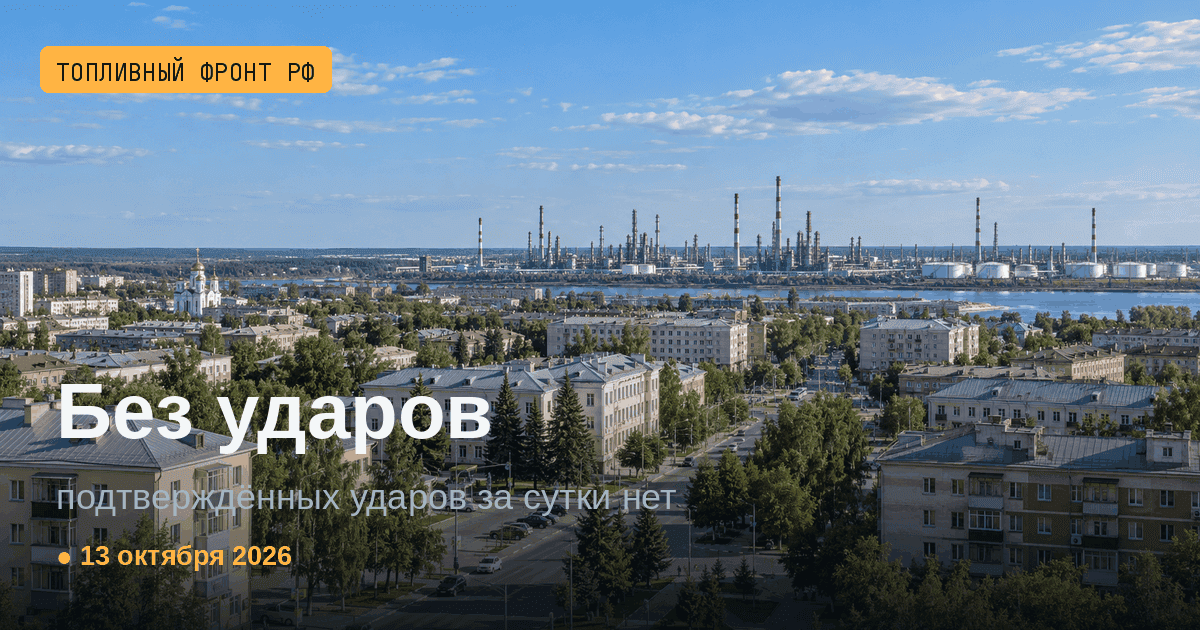
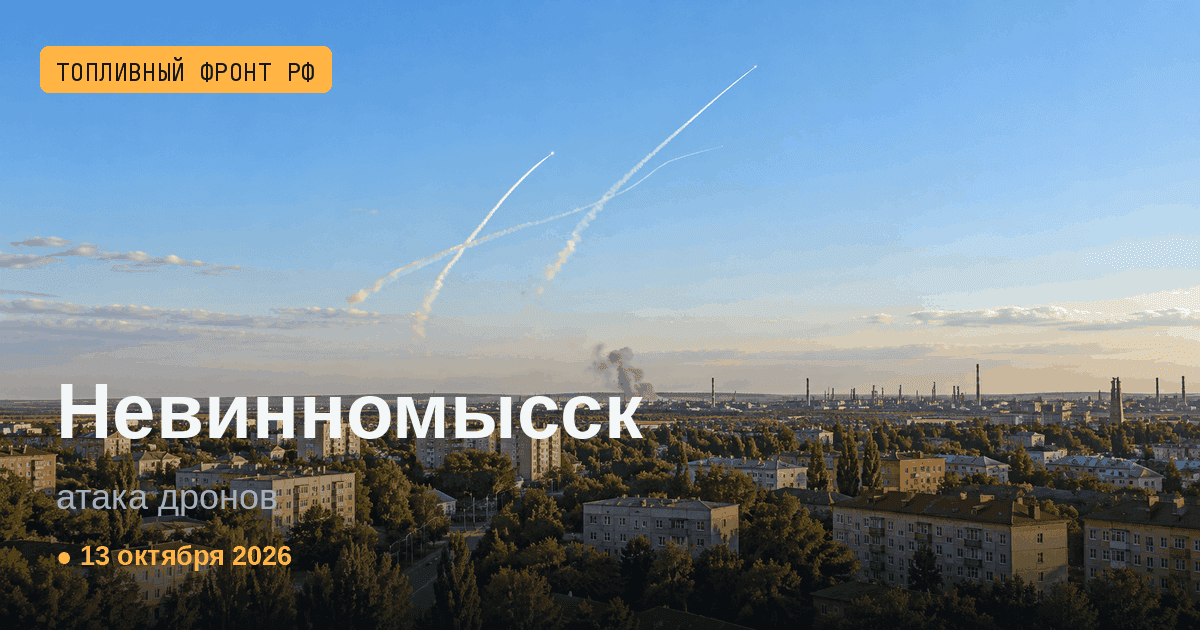
news: regenerate SEO digest + archive

diff --git a/news/2026-10-13.html b/news/2026-10-13.html
@@ -17,7 +17,7 @@
   <meta property="og:url" content="https://npz-tactical-map.vercel.app/news/2026-10-13">
   <meta property="og:title" content="Сводка за 13 октября 2026: 7 ударов по РФ: Невинномысск, Мосальск, Беловский район (Белая) и ещё 3 | Топливный фронт РФ">
   <meta property="og:description" content="Топливный фронт РФ за 13 октября 2026: Губернатор Ставропольского края сообщил об отражении массированной атаки беспилотников на промзону Невинномысска; обломки повредили объекты, масштаб у… Удары по НПЗ, дефицит бензина, лимиты на АЗС.">
-  <meta property="og:image" content="https://npz-tactical-map.vercel.app/assets/cover-2026-10-13.png?v=caab6842">
+  <meta property="og:image" content="https://npz-tactical-map.vercel.app/assets/cover-2026-10-13.png?v=6ddd67bf">
   <meta property="og:image:alt" content="Сводка ударов по НПЗ и дефицита бензина — Топливный фронт РФ">
   <meta property="og:image:width" content="1200">
   <meta property="og:image:height" content="630">
@@ -25,14 +25,16 @@
   <meta name="twitter:card" content="summary_large_image">
   <meta name="twitter:title" content="Сводка за 13 октября 2026: 7 ударов по РФ: Невинномысск, Мосальск, Беловский район (Белая) и ещё 3 | Топливный фронт РФ">
   <meta name="twitter:description" content="Топливный фронт РФ за 13 октября 2026: Губернатор Ставропольского края сообщил об отражении массированной атаки беспилотников на промзону Невинномысска; обломки повредили объекты, масштаб у… Удары по НПЗ, дефицит бензина, лимиты на АЗС.">
-  <meta name="twitter:image" content="https://npz-tactical-map.vercel.app/assets/cover-2026-10-13.png?v=caab6842">
+  <meta name="twitter:image" content="https://npz-tactical-map.vercel.app/assets/cover-2026-10-13.png?v=6ddd67bf">
   <meta name="twitter:image:alt" content="NPZ Tactical Map — Russia Fuel Crisis Daily Brief">
 
   <link rel="alternate" type="application/rss+xml" title="Топливный фронт РФ — сводки (RSS)" href="https://npz-tactical-map.vercel.app/rss.xml">
 
-  <script type="application/ld+json">{"@context": "https://schema.org", "@type": "NewsArticle", "headline": "Сводка за 13 октября 2026: 7 ударов по РФ: Невинномысск, Мосальск, Беловский район (Белая) и ещё 3", "datePublished": "2026-10-13", "dateModified": "2026-10-13", "image": ["https://npz-tactical-map.vercel.app/assets/cover-2026-10-13.png?v=caab6842"], "author": {"@type": "Organization", "name": "Топливный фронт РФ"}, "publisher": {"@type": "Organization", "name": "Топливный фронт РФ", "url": "https://npz-tactical-map.vercel.app/"}, "description": "Топливный фронт РФ за 13 октября 2026: Губернатор Ставропольского края сообщил об отражении массированной атаки беспилотников на промзону Невинномысска; обломки повредили объекты, масштаб у… Удары по НПЗ, дефицит бензина, лимиты на АЗС.", "mainEntityOfPage": "https://npz-tactical-map.vercel.app/news/2026-10-13", "isAccessibleForFree": true}</script>
+  <script type="application/ld+json">{"@context": "https://schema.org", "@type": "NewsArticle", "headline": "Сводка за 13 октября 2026: 7 ударов по РФ: Невинномысск, Мосальск, Беловский район (Белая) и ещё 3", "datePublished": "2026-10-13", "dateModified": "2026-10-13", "image": ["https://npz-tactical-map.vercel.app/assets/cover-2026-10-13.png?v=6ddd67bf"], "author": {"@type": "Organization", "name": "Топливный фронт РФ"}, "publisher": {"@type": "Organization", "name": "Топливный фронт РФ", "url": "https://npz-tactical-map.vercel.app/"}, "description": "Топливный фронт РФ за 13 октября 2026: Губернатор Ставропольского края сообщил об отражении массированной атаки беспилотников на промзону Невинномысска; обломки повредили объекты, масштаб у… Удары по НПЗ, дефицит бензина, лимиты на АЗС.", "mainEntityOfPage": "https://npz-tactical-map.vercel.app/news/2026-10-13", "isAccessibleForFree": true}</script>
   <script type="application/ld+json">{"@context": "https://schema.org", "@type": "BreadcrumbList", "itemListElement": [{"@type": "ListItem", "position": 1, "name": "Топливный фронт РФ", "item": "https://npz-tactical-map.vercel.app/"}, {"@type": "ListItem", "position": 2, "name": "Сводки", "item": "https://npz-tactical-map.vercel.app/news"}, {"@type": "ListItem", "position": 3, "name": "Октябрь 2026", "item": "https://npz-tactical-map.vercel.app/news/2026-10"}, {"@type": "ListItem", "position": 4, "name": "13 октября 2026", "item": "https://npz-tactical-map.vercel.app/news/2026-10-13"}]}</script>
-  <script type="application/ld+json">{"@context": "https://schema.org", "@type": "VideoObject", "name": "Удар по промзоне Невинномысска · 13.10.2026", "description": "Топливный фронт РФ за 13 октября 2026: Губернатор Ставропольского края сообщил об отражении массированной атаки беспилотников на промзону Невинномысска; обломки повредили объекты, масштаб у… Удары по НПЗ, дефицит бензина, лимиты на АЗС.", "thumbnailUrl": ["https://npz-tactical-map.vercel.app/assets/cover-2026-10-13.png?v=caab6842", "https://i.ytimg.com/vi/1FoJbZvLtJg/hqdefault.jpg"], "uploadDate": "2026-10-13T12:40:39Z", "embedUrl": "https://www.youtube.com/embed/1FoJbZvLtJg", "inLanguage": "ru", "duration": "PT14S"}</script>
+  <script type="application/ld+json">{"@context": "https://schema.org", "@type": "VideoObject", "name": "Удар по промзоне Невинномысска · 13.10.2026", "description": "Топливный фронт РФ за 13 октября 2026: Губернатор Ставропольского края сообщил об отражении массированной атаки беспилотников на промзону Невинномысска; обломки повредили объекты, масштаб у… Удары по НПЗ, дефицит бензина, лимиты на АЗС.", "thumbnailUrl": ["https://npz-tactical-map.vercel.app/assets/cover-2026-10-13.png?v=6ddd67bf", "https://i.ytimg.com/vi/1FoJbZvLtJg/hqdefault.jpg"], "uploadDate": "2026-10-13T12:40:39Z", "embedUrl": "https://www.youtube.com/embed/1FoJbZvLtJg", "inLanguage": "ru", "duration": "PT14S"}</script>
+  <script type="application/ld+json">{"@context": "https://schema.org", "@type": "VideoObject", "name": "Атака на предприятия Шебекинского округа · вечер 13.10.2026", "description": "Топливный фронт РФ за 13 октября 2026: Губернатор Ставропольского края сообщил об отражении массированной атаки беспилотников на промзону Невинномысска; обломки повредили объекты, масштаб у… Удары по НПЗ, дефицит бензина, лимиты на АЗС.", "thumbnailUrl": ["https://npz-tactical-map.vercel.app/assets/cover-2026-10-13.png?v=6ddd67bf", "https://i.ytimg.com/vi/05eNTGwAZ8o/hqdefault.jpg"], "uploadDate": "2026-10-13T17:00:03Z", "embedUrl": "https://www.youtube.com/embed/05eNTGwAZ8o", "inLanguage": "ru", "duration": "PT13S"}</script>
+  <script type="application/ld+json">{"@context": "https://schema.org", "@type": "VideoObject", "name": "Удар по предприятия Шебекинского округа · 13.10.2026", "description": "Топливный фронт РФ за 13 октября 2026: Губернатор Ставропольского края сообщил об отражении массированной атаки беспилотников на промзону Невинномысска; обломки повредили объекты, масштаб у… Удары по НПЗ, дефицит бензина, лимиты на АЗС.", "thumbnailUrl": ["https://npz-tactical-map.vercel.app/assets/cover-2026-10-13.png?v=6ddd67bf", "https://i.ytimg.com/vi/JZ3WJevl57E/hqdefault.jpg"], "uploadDate": "2026-10-13T17:11:20Z", "embedUrl": "https://www.youtube.com/embed/JZ3WJevl57E", "inLanguage": "ru", "duration": "PT15S"}</script>
 
   <script>window.va = window.va || function () { (window.vaq = window.vaq || []).push(arguments); };</script>
   <script defer src="/_vercel/insights/script.js"></script>
@@ -202,7 +204,7 @@
     <div class="news-container">
       <nav class="brief-crumb"><a href="/news">📰 Все сводки</a> <span>/</span> <a href="/news/2026-10">Октябрь 2026</a> <span>/</span> 13 октября 2026</nav>
       <section class="news-hero">
-        <img class="news-hero-image" src="/assets/cover-2026-10-13.webp?v=0321ffbf" alt="Сводка за 13 октября 2026" width="1200" height="630" loading="eager">
+        <img class="news-hero-image" src="/assets/cover-2026-10-13.webp?v=58d9c287" alt="Сводка за 13 октября 2026" width="1200" height="630" loading="eager">
         <span class="hero-kicker">вторник, 13.10.2026</span>
         <h1>13 октября 2026: 7 ударов по РФ: Невинномысск, Мосальск, Беловский район (Белая) и ещё 3</h1>
         <p class="section-sub">7 зафиксированных ударов. OSINT-агрегация по открытым источникам.</p>
@@ -432,6 +434,7 @@
           <p>Удары дня на карте и итог суток — короткие ролики на YouTube.</p>
           <div class="cta-buttons">
             <a href="https://youtu.be/1FoJbZvLtJg" class="cta-btn primary" target="_blank" rel="noopener">▶ Короткое видео: удары дня на карте</a>
+            <a href="https://youtu.be/JZ3WJevl57E" class="cta-btn primary" target="_blank" rel="noopener">▶ Срочно: удар на карте</a>
           </div>
         </div>
       </section>

diff --git a/news/2026-10.html b/news/2026-10.html
@@ -17,7 +17,7 @@
   <meta property="og:url" content="https://npz-tactical-map.vercel.app/news/2026-10">
   <meta property="og:title" content="Удары по НПЗ и топливная обстановка — октябрь 2026 | Топливный фронт РФ">
   <meta property="og:description" content="Архив сводок за октябрь 2026: 97 ударов по РФ, из них 22 по НПЗ/энергетике, за 13 дней в архиве. Хроника по дням с картой и источниками.">
-  <meta property="og:image" content="https://npz-tactical-map.vercel.app/assets/cover-2026-10-13.png?v=caab6842">
+  <meta property="og:image" content="https://npz-tactical-map.vercel.app/assets/cover-2026-10-13.png?v=6ddd67bf">
   <meta property="og:image:alt" content="Сводка ударов по НПЗ и дефицита бензина — Топливный фронт РФ">
   <meta property="og:image:width" content="1200">
   <meta property="og:image:height" content="630">
@@ -25,7 +25,7 @@
   <meta name="twitter:card" content="summary_large_image">
   <meta name="twitter:title" content="Удары по НПЗ и топливная обстановка — октябрь 2026 | Топливный фронт РФ">
   <meta name="twitter:description" content="Архив сводок за октябрь 2026: 97 ударов по РФ, из них 22 по НПЗ/энергетике, за 13 дней в архиве. Хроника по дням с картой и источниками.">
-  <meta name="twitter:image" content="https://npz-tactical-map.vercel.app/assets/cover-2026-10-13.png?v=caab6842">
+  <meta name="twitter:image" content="https://npz-tactical-map.vercel.app/assets/cover-2026-10-13.png?v=6ddd67bf">
   <meta name="twitter:image:alt" content="NPZ Tactical Map — Russia Fuel Crisis Daily Brief">
 
   <link rel="alternate" type="application/rss+xml" title="Топливный фронт РФ — сводки (RSS)" href="https://npz-tactical-map.vercel.app/rss.xml">
@@ -201,7 +201,7 @@
     <div class="news-container">
       <nav class="brief-crumb"><a href="/news">📰 Все сводки</a> <span>/</span> Октябрь 2026</nav>
       <section class="news-hero">
-        <img class="news-hero-image" src="/assets/cover-2026-10-13.webp?v=0321ffbf" alt="Архив сводок за октябрь 2026" width="1200" height="630" loading="eager">
+        <img class="news-hero-image" src="/assets/cover-2026-10-13.webp?v=58d9c287" alt="Архив сводок за октябрь 2026" width="1200" height="630" loading="eager">
         <span class="hero-kicker">Архив по месяцам</span>
         <h1>Удары по НПЗ и топливная обстановка — октябрь 2026</h1>
         <p class="section-sub">Хроника ударов и дефицита топлива за октябрь 2026: 97 ударов за 13 дней, основные цели — Калуга (6), Самара (6), Шебекино (6), Ростов-на-Дону (3), Белгород (2).</p>
@@ -219,7 +219,7 @@
         <h2>🗓 Сводки по дням — октябрь 2026</h2>
         <div class="brief-grid">
         <a class="brief-card" href="/news/2026-10-13">
-          <div class="brief-card-cover" style="background-image:url('/assets/thumb/cover-2026-10-13.webp?v=4aaca2ea')">
+          <div class="brief-card-cover" style="background-image:url('/assets/thumb/cover-2026-10-13.webp?v=ec5bbe8a')">
             <span class="brief-card-date">13 октября</span>
           </div>
           <div class="brief-card-body">

diff --git a/news.html b/news.html
@@ -17,7 +17,7 @@
   <meta property="og:url" content="https://npz-tactical-map.vercel.app/news">
   <meta property="og:title" content="Топливный фронт РФ — сводки по дням | удары по НПЗ и дефицит бензина">
   <meta property="og:description" content="Ежедневные OSINT-сводки: удары БПЛА по нефтезаводам России, дефицит бензина, лимиты на АЗС, очереди, цены АИ-95, биржа СПбМТСБ. Архив за каждый день. Последнее обновление — 13 октября 2026.">
-  <meta property="og:image" content="https://npz-tactical-map.vercel.app/assets/cover-2026-10-13.png?v=caab6842">
+  <meta property="og:image" content="https://npz-tactical-map.vercel.app/assets/cover-2026-10-13.png?v=6ddd67bf">
   <meta property="og:image:alt" content="Сводка ударов по НПЗ и дефицита бензина — Топливный фронт РФ">
   <meta property="og:image:width" content="1200">
   <meta property="og:image:height" content="630">
@@ -25,7 +25,7 @@
   <meta name="twitter:card" content="summary_large_image">
   <meta name="twitter:title" content="Топливный фронт РФ — сводки по дням | удары по НПЗ и дефицит бензина">
   <meta name="twitter:description" content="Ежедневные OSINT-сводки: удары БПЛА по нефтезаводам России, дефицит бензина, лимиты на АЗС, очереди, цены АИ-95, биржа СПбМТСБ. Архив за каждый день. Последнее обновление — 13 октября 2026.">
-  <meta name="twitter:image" content="https://npz-tactical-map.vercel.app/assets/cover-2026-10-13.png?v=caab6842">
+  <meta name="twitter:image" content="https://npz-tactical-map.vercel.app/assets/cover-2026-10-13.png?v=6ddd67bf">
   <meta name="twitter:image:alt" content="NPZ Tactical Map — Russia Fuel Crisis Daily Brief">
 
   <link rel="alternate" type="application/rss+xml" title="Топливный фронт РФ — сводки (RSS)" href="https://npz-tactical-map.vercel.app/rss.xml">
@@ -201,7 +201,7 @@
 
       <section class="news-hero-lead">
         <a class="hero-cover-link" href="/news/2026-10-13">
-          <img class="news-hero-image" src="/assets/cover-2026-10-13.webp?v=0321ffbf" alt="Сводка за 13 октября 2026" width="1200" height="630" loading="eager">
+          <img class="news-hero-image" src="/assets/cover-2026-10-13.webp?v=58d9c287" alt="Сводка за 13 октября 2026" width="1200" height="630" loading="eager">
         </a>
         <div class="hero-lead-body">
           <span class="hero-kicker">🔴 Свежая сводка · вторник, 13.10.2026</span>
@@ -249,7 +249,7 @@
         <p class="section-sub">Хроника топливного кризиса — каждый день с 7 июня 2026. Нажми на карточку, чтобы открыть сводку за дату.</p>
         <div class="brief-grid">
         <a class="brief-card is-latest" href="/news/2026-10-13">
-          <div class="brief-card-cover" style="background-image:url('/assets/thumb/cover-2026-10-13.webp?v=4aaca2ea')">
+          <div class="brief-card-cover" style="background-image:url('/assets/thumb/cover-2026-10-13.webp?v=ec5bbe8a')">
             <span class="brief-card-date">13 октября</span>
           </div>
           <div class="brief-card-body">
